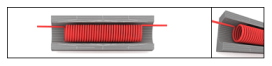
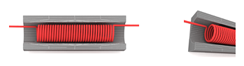
Добавил картинки для ленточных нагревателей

diff --git a/branches/calc_with_strip/nihrom-price-model.htm b/branches/calc_with_strip/nihrom-price-model.htm
@@ -816,7 +816,7 @@
 											<br><input type="text" name="size_relation">
 										</p>
 										<p>Конструкция и размещение нагревателей
-											<span class="formInfo"><a data-tooltip="Проволочные спиралевидные нагреватели <img src=images/heater_calc/heater_spiral.png> <br>Проволочные спирали полузакрытые <img src=images/heater_calc/heater_groove.png> <br>Проволочные спирали на полочках в трубках <img src=images/heater_calc/heater_tube.png> <br>Проволочные зигзагообразные нагреватели <img src=images/heater_calc/heater_zigzag.png>" name="Конструкция и размещение нагревателей">?</a></span>
+											<span class="formInfo"><a data-tooltip="Проволочные спиралевидные нагреватели <img src=images/heater_calc/heater_spiral.png> <br>Проволочные спирали полузакрытые <img src=images/heater_calc/heater_groove.png> <br>Проволочные спирали на полочках в трубках <img src=images/heater_calc/heater_tube.png> <br>Проволочные зигзагообразные нагреватели <img src=images/heater_calc/heater_zigzag.png> <br>Ленточные зигзагообразные нагреватели <img src=images/heater_calc/heater_strip_zigzag.png> <br>Ленточные профилированные нагреватели <img src=images/heater_calc/heater_profile.png>" name="Конструкция и размещение нагревателей">?</a></span>
 											<br><select name="placement" required>
 											</select>
 										</p>
